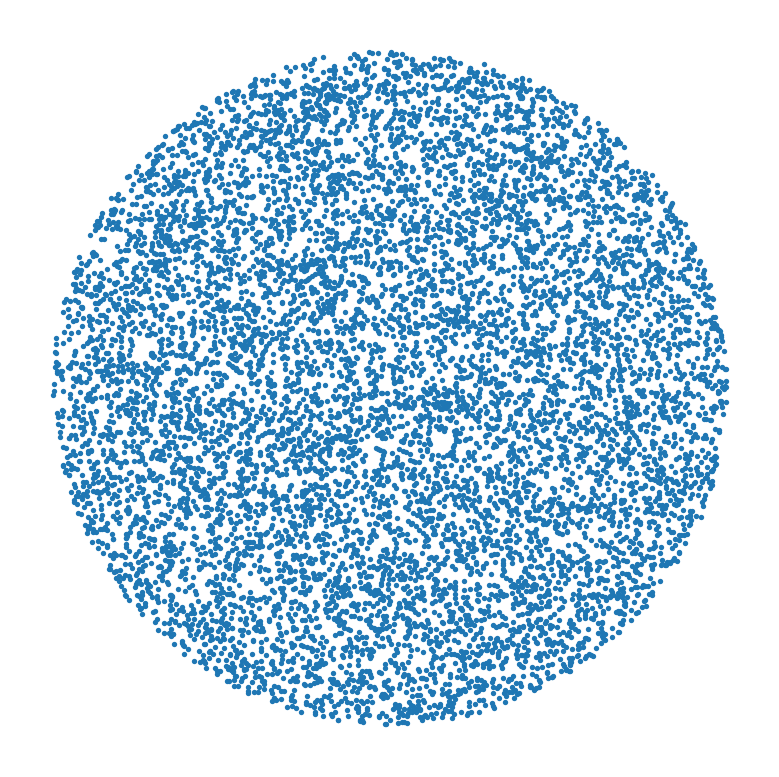
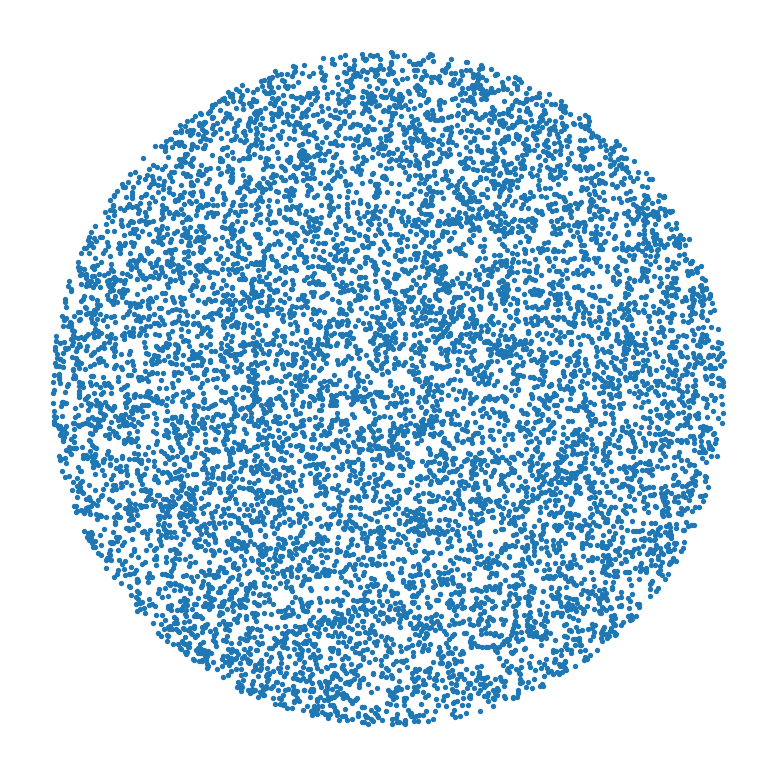
Built site for gh-pages

diff --git a/posts/break-for/index.html b/posts/break-for/index.html
@@ -201,7 +201,7 @@ pre > code.sourceCode > span > a:first-child::before { text-decoration: underlin
 <section id="single-nested-for-loop" class="level2" data-number="1">
 <h2 data-number="1" class="anchored" data-anchor-id="single-nested-for-loop"><span class="header-section-number">1</span> Single Nested <code>for</code> Loop</h2>
 <p>In a <code>for</code>-<code>else</code> clause, <code>else</code> is reached precisely when the <code>for</code> loop is not broken. We give 2 examples to demonstrate this.</p>
-<div id="fcd2cb27" class="cell" data-execution_count="1">
+<div id="f8bddc63" class="cell" data-execution_count="1">
 <div class="code-copy-outer-scaffold"><div class="sourceCode cell-code" id="cb1"><pre class="sourceCode python code-with-copy"><code class="sourceCode python"><span id="cb1-1"><a href="#cb1-1" aria-hidden="true" tabindex="-1"></a><span class="cf">for</span> i <span class="kw">in</span> <span class="bu">range</span>(<span class="dv">3</span>):</span>
 <span id="cb1-2"><a href="#cb1-2" aria-hidden="true" tabindex="-1"></a>    <span class="cf">if</span> i <span class="op">==</span> <span class="dv">4</span>:</span>
 <span id="cb1-3"><a href="#cb1-3" aria-hidden="true" tabindex="-1"></a>        <span class="cf">break</span></span>
@@ -211,7 +211,7 @@ pre > code.sourceCode > span > a:first-child::before { text-decoration: underlin
 <pre><code>Finished for loop layer 1</code></pre>
 </div>
 </div>
-<div id="25748d30" class="cell" data-execution_count="2">
+<div id="65c06d8b" class="cell" data-execution_count="2">
 <div class="code-copy-outer-scaffold"><div class="sourceCode cell-code" id="cb3"><pre class="sourceCode python code-with-copy"><code class="sourceCode python"><span id="cb3-1"><a href="#cb3-1" aria-hidden="true" tabindex="-1"></a><span class="cf">for</span> i <span class="kw">in</span> <span class="bu">range</span>(<span class="dv">3</span>):</span>
 <span id="cb3-2"><a href="#cb3-2" aria-hidden="true" tabindex="-1"></a>    <span class="cf">if</span> i <span class="op">==</span> <span class="dv">2</span>:</span>
 <span id="cb3-3"><a href="#cb3-3" aria-hidden="true" tabindex="-1"></a>        <span class="cf">break</span></span>
@@ -222,7 +222,7 @@ pre > code.sourceCode > span > a:first-child::before { text-decoration: underlin
 <section id="double-nested-for-loop" class="level2" data-number="2">
 <h2 data-number="2" class="anchored" data-anchor-id="double-nested-for-loop"><span class="header-section-number">2</span> Double Nested <code>for</code> Loop</h2>
 <p>Here, the program halts right after <code>(i,j)</code> reaches <code>(2,1)</code>, which is what we want.</p>
-<div id="c39adfe5" class="cell" data-execution_count="3">
+<div id="e7141ab5" class="cell" data-execution_count="3">
 <div class="code-copy-outer-scaffold"><div class="sourceCode cell-code" id="cb4"><pre class="sourceCode python code-with-copy"><code class="sourceCode python"><span id="cb4-1"><a href="#cb4-1" aria-hidden="true" tabindex="-1"></a><span class="cf">for</span> i <span class="kw">in</span> <span class="bu">range</span>(<span class="dv">4</span>): <span class="co"># Layer 1</span></span>
 <span id="cb4-2"><a href="#cb4-2" aria-hidden="true" tabindex="-1"></a>    <span class="bu">print</span>(<span class="ss">f"Layer 1 for i = </span><span class="sc">{</span>i<span class="sc">}</span><span class="ss">: start"</span>)</span>
 <span id="cb4-3"><a href="#cb4-3" aria-hidden="true" tabindex="-1"></a>    <span class="cf">for</span> j <span class="kw">in</span> <span class="bu">range</span>(<span class="dv">3</span>): <span class="co"># Layer 2</span></span>
@@ -250,7 +250,7 @@ Layer 1 for i = 2: start
 </div>
 </div>
 <p>Here, no <code>continue</code> in the <code>else</code> part. Thus, the program breaks unconditionally after finishing its job in the <code>i==0</code> round.</p>
-<div id="49c3c10a" class="cell" data-execution_count="4">
+<div id="214ed6db" class="cell" data-execution_count="4">
 <div class="code-copy-outer-scaffold"><div class="sourceCode cell-code" id="cb6"><pre class="sourceCode python code-with-copy"><code class="sourceCode python"><span id="cb6-1"><a href="#cb6-1" aria-hidden="true" tabindex="-1"></a><span class="cf">for</span> i <span class="kw">in</span> <span class="bu">range</span>(<span class="dv">4</span>):</span>
 <span id="cb6-2"><a href="#cb6-2" aria-hidden="true" tabindex="-1"></a>    <span class="bu">print</span>(<span class="ss">f"Layer 1 for i = </span><span class="sc">{</span>i<span class="sc">}</span><span class="ss">: start"</span>)</span>
 <span id="cb6-3"><a href="#cb6-3" aria-hidden="true" tabindex="-1"></a>    <span class="cf">for</span> j <span class="kw">in</span> <span class="bu">range</span>(<span class="dv">3</span>):</span>
@@ -272,7 +272,7 @@ Layer 1 for i = 2: start
 <section id="triple-nested-for-loop" class="level2" data-number="3">
 <h2 data-number="3" class="anchored" data-anchor-id="triple-nested-for-loop"><span class="header-section-number">3</span> Triple Nested <code>for</code> Loop</h2>
 <p>OK, we’ve learnt enough. Now, let’s test it on a triple nested <code>for</code> loop!</p>
-<div id="018f908b" class="cell" data-execution_count="5">
+<div id="d53a163a" class="cell" data-execution_count="5">
 <div class="code-copy-outer-scaffold"><div class="sourceCode cell-code" id="cb8"><pre class="sourceCode python code-with-copy"><code class="sourceCode python"><span id="cb8-1"><a href="#cb8-1" aria-hidden="true" tabindex="-1"></a><span class="cf">for</span> i <span class="kw">in</span> <span class="bu">range</span>(<span class="dv">3</span>):</span>
 <span id="cb8-2"><a href="#cb8-2" aria-hidden="true" tabindex="-1"></a>    <span class="cf">for</span> j <span class="kw">in</span> <span class="bu">range</span>(<span class="dv">4</span>):</span>
 <span id="cb8-3"><a href="#cb8-3" aria-hidden="true" tabindex="-1"></a>        <span class="cf">for</span> k <span class="kw">in</span> <span class="bu">range</span>(<span class="dv">2</span>):</span>

diff --git a/posts/instruments-as-operators/piano.html b/posts/instruments-as-operators/piano.html
@@ -197,8 +197,10 @@ window.Quarto = {
 <div class="ins">
 <div class="panel">
     <div class="controls"><button id="o21">C4 + C5, exactly 2 : 1</button><button id="ost" class="primary">C4 + C5, stretched</button></div>
+    <div class="slider"><label for="oMult">Stiffness ×</label><input type="range" id="oMult" min="1" max="12" step="0.5" value="6"><output id="oMulto">6.0</output></div>
+    <label class="check"><input type="checkbox" id="oAll"> Play every partial</label>
     <div class="readout" id="oRead"></div>
-    <p class="cap">Listen for the slow wobble in the 2 : 1 version. Raising the stiffness on the keyboard below speeds it up.</p>
+    <p class="cap">At first each note keeps only its lowest partials (C4: 1 to 3, C5: 1 and 2), so the one beat a tuner listens for stands out: the exactly 2 : 1 octave wobbles at the rate shown, and the stretched one is steady. The stiffness starts at about 6 times a real middle C wire's so that the wobble is quick enough to hear; at 1 it is a slow swell every few seconds. Tick "Play every partial" to hear whole notes: then the stretched octave wobbles too, from the lower note's 4th partial against the upper note's 2nd, the compromise described below.</p>
   </div>
 </div>
 <p>Then play the whole piano with the mouse or your computer keys. Release a key and its felt <a href="../../posts/instruments-as-operators/glossary.html#damper">damper</a> drops back onto the string and stops it.</p>
@@ -514,24 +516,39 @@ f_n = n f_0\sqrt{1 + Bn^2}, \qquad B = \frac{\pi^2 EI}{T L^2},
   }, true);
 
   var ms = document.getElementById("mult"), mo = document.getElementById("multo");
-  ms.addEventListener("input", function () { mult = parseFloat(ms.value); mo.textContent = mult.toFixed(1); pspec(); octRead(); });
+  ms.addEventListener("input", function () { mult = parseFloat(ms.value); mo.textContent = mult.toFixed(1); pspec(); });
   function pspec() {
     var p = partsFor(last);
     C.stems(document.getElementById("pSpec"), p, { W: 320, H: 120, rmax: 16, fs: 8, sw: 2, labelEvery: 2 });
     var r10 = p[9] ? p[9].ratio : null;
     document.getElementById("pPart").innerHTML = C.noteName(C.mtof(last)).name + " · partial 2 at <b>" + (1200 * Math.log2(p[1].ratio / 2)).toFixed(1) + "¢</b> sharp" + (r10 ? " · partial 10 at <b>" + (1200 * Math.log2(r10 / 10)).toFixed(0) + "¢</b> sharp" : "");
   }
-  function r2(k) { var B = C.models.piano.B(k, mult); return 2 * Math.sqrt((1 + 4 * B) / (1 + B)); }
+  // The octave demo has its own stiffness, so the beat can be made quick enough to hear without changing the keyboard.
+  var om = 6, oAll = false;
+  function rn(n, B) { return n * Math.sqrt((1 + B * n * n) / (1 + B)); }
+  function oB(k) { return C.models.piano.B(k, om); }
+  function r2(k) { return rn(2, oB(k)); }
   function octRead() {
-    var f = C.mtof(60), beat = f * (r2(60) - 2);
-    document.getElementById("oRead").innerHTML = "2 : 1 octave beats at <b>" + beat.toFixed(2) + " Hz</b> · stretched octave is <b>" + (1200 * Math.log2(r2(60) / 2)).toFixed(1) + "¢</b> wide";
+    var f = C.mtof(60), B4 = oB(60), B5 = oB(72), f5s = f * r2(60);
+    var txt = "exactly 2 : 1: C4's 2nd partial beats against C5 at <b>" + (f * (r2(60) - 2)).toFixed(2) + " Hz</b> · stretched: no beat there, octave <b>" + (1200 * Math.log2(r2(60) / 2)).toFixed(1) + "¢</b> wide";
+    if (oAll) txt += " · C4's 4th partial against C5's 2nd: <b>" + Math.abs(f * rn(4, B4) - 2 * f * rn(2, B5)).toFixed(2) + " Hz</b> exact, <b>" + Math.abs(f * rn(4, B4) - f5s * rn(2, B5)).toFixed(2) + " Hz</b> stretched";
+    document.getElementById("oRead").innerHTML = txt;
   }
+  // The lowest partials only, with fixed strengths, so the 2 : 1 pair dominates.
+  function lowest(f1, B, amps, tau) { return amps.map(function (a, i) { return { f: f1 * rn(i + 1, B), amp: a, tau: tau }; }); }
   function octave(stretch) {
-    var f = C.mtof(60), f5 = stretch ? f * r2(60) : 2 * f;
-    var a = C.toHz(partsFor(60, f), f), b = C.toHz(partsFor(72, f5), f5);
-    b.forEach(function (p) { p.amp *= 0.8; });
+    var f = C.mtof(60), f5 = stretch ? f * r2(60) : 2 * f, a, b;
+    if (oAll) {
+      a = C.toHz(partsFor(60, f, om), f); b = C.toHz(partsFor(72, f5, om), f5);
+      b.forEach(function (p) { p.amp *= 0.8; });
+    } else {
+      a = lowest(f, oB(60), [1, 0.7, 0.3], 2.6); b = lowest(f5, oB(72), [0.7, 0.25], 2.0);
+    }
     C.play(C.render(a.concat(b), 4.5), 0.8);
   }
+  var oms = document.getElementById("oMult"), omo = document.getElementById("oMulto");
+  oms.addEventListener("input", function () { om = parseFloat(oms.value); omo.textContent = om.toFixed(1); octRead(); });
+  document.getElementById("oAll").addEventListener("change", function (e) { oAll = e.target.checked; octRead(); });
   document.getElementById("o21").addEventListener("click", function () { octave(false); });
   document.getElementById("ost").addEventListener("click", function () { octave(true); });
   C.onTheme(pspec);

diff --git a/index.html b/index.html
@@ -200,7 +200,7 @@ Title
 </thead>
 <tbody class="list">
 
-<tr data-index="0" data-categories="bWF0aCUyQ211c2lj" data-listing-date-sort="1792886400000" data-listing-file-modified-sort="1793030758770" data-listing-date-modified-sort="1792972800000" data-listing-reading-time-sort="13" data-listing-word-count-sort="2510" data-listing-title-sort="Instruments as Operators" data-listing-filename-sort="index.qmd">
+<tr data-index="0" data-categories="bWF0aCUyQ211c2lj" data-listing-date-sort="1792886400000" data-listing-file-modified-sort="1793076363288" data-listing-date-modified-sort="1792972800000" data-listing-reading-time-sort="13" data-listing-word-count-sort="2574" data-listing-title-sort="Instruments as Operators" data-listing-filename-sort="index.qmd">
 <td>
 <span class="listing-date">Oct 25, 2026</span>
 </td>
@@ -210,7 +210,7 @@ Title
 
 </tr>
 
-<tr data-index="1" data-categories="YXJ0" data-listing-date-sort="1700524800000" data-listing-file-modified-sort="1793030758768" data-listing-date-modified-sort="1700697600000" data-listing-reading-time-sort="3" data-listing-word-count-sort="401" data-listing-title-sort="A Bicycle Wheel" data-listing-filename-sort="index.qmd">
+<tr data-index="1" data-categories="YXJ0" data-listing-date-sort="1700524800000" data-listing-file-modified-sort="1793076363286" data-listing-date-modified-sort="1700697600000" data-listing-reading-time-sort="3" data-listing-word-count-sort="401" data-listing-title-sort="A Bicycle Wheel" data-listing-filename-sort="index.qmd">
 <td>
 <span class="listing-date">Nov 21, 2023</span>
 </td>
@@ -220,7 +220,7 @@ Title
 
 </tr>
 
-<tr data-index="2" data-categories="Y29kZQ==" data-listing-date-sort="1697673600000" data-listing-file-modified-sort="1793030758771" data-listing-date-modified-sort="1700697600000" data-listing-reading-time-sort="2" data-listing-word-count-sort="220" data-listing-title-sort="Inverse Sampling Transform" data-listing-filename-sort="index.qmd">
+<tr data-index="2" data-categories="Y29kZQ==" data-listing-date-sort="1697673600000" data-listing-file-modified-sort="1793076363289" data-listing-date-modified-sort="1700697600000" data-listing-reading-time-sort="2" data-listing-word-count-sort="220" data-listing-title-sort="Inverse Sampling Transform" data-listing-filename-sort="index.qmd">
 <td>
 <span class="listing-date">Oct 19, 2023</span>
 </td>
@@ -230,7 +230,7 @@ Title
 
 </tr>
 
-<tr data-index="3" data-categories="Y29kZQ==" data-listing-date-sort="1695340800000" data-listing-file-modified-sort="1793030758768" data-listing-date-modified-sort="1700697600000" data-listing-reading-time-sort="3" data-listing-word-count-sort="528" data-listing-title-sort="How to Break Nested For Loop" data-listing-filename-sort="index.qmd">
+<tr data-index="3" data-categories="Y29kZQ==" data-listing-date-sort="1695340800000" data-listing-file-modified-sort="1793076363286" data-listing-date-modified-sort="1700697600000" data-listing-reading-time-sort="3" data-listing-word-count-sort="528" data-listing-title-sort="How to Break Nested For Loop" data-listing-filename-sort="index.qmd">
 <td>
 <span class="listing-date">Sep 22, 2023</span>
 </td>

diff --git a/posts/instruments-as-operators/index.html b/posts/instruments-as-operators/index.html
@@ -230,7 +230,7 @@ window.Quarto = {
   </div>
   <div class="pcard">
     <p class="q">Why do piano tuners avoid exact octaves?</p>
-    <p class="b">An octave tuned to exactly 2 : 1 wobbles; a slightly stretched one doesn't. Stiffness exaggerated here so the wobble is easy to hear.</p>
+    <p class="b">An octave tuned to exactly 2 : 1 wobbles; a slightly stretched one doesn't. To make the wobble easy to hear, these are simplified notes: only their lowest partials, with the stiffness exaggerated.</p>
     <div class="controls"><button data-g="oct">Exactly 2 : 1</button><button data-g="str">Stretched</button></div>
     <p class="go">Answered on <a href="piano.html">page 7</a></p>
   </div>
@@ -548,8 +548,9 @@ Every instrument side by side: force, operator, boundary, eigen-condition, ratio
 
   // ---- the six puzzles ----
   function harmonics(f, n, odd, skip1) { var out = []; for (var k = 1; k <= n; k++) { if (odd && k % 2 === 0) continue; if (skip1 && k === 1) continue; out.push({ f: f * k, amp: 1 / k, tau: 10 }); } return out; }
-  var BL = 0.0024, BU = 0.0048, LOW = 261.63, P2 = Math.sqrt((1 + 4 * BL) / (1 + BL));
-  function pianoNote(f1, B) { return C.toHz(M.piano.partials({ B: B, f1: f1 }), f1); }
+  // Octave puzzle: simplified stiff-string notes, only the lowest partials, so the tuner's 2 : 1 beat (C4's 2nd partial against C5) stands out.
+  var BS = 0.0024, LOW = 261.63, P2 = Math.sqrt((1 + 4 * BS) / (1 + BS));
+  function stiffNote(f1, amps) { return amps.map(function (a, i) { var n = i + 1; return { f: f1 * n * Math.sqrt((1 + BS * n * n) / (1 + BS)), amp: a, tau: 3 }; }); }
   var GWW = [2.53794399980, 3.65550971352, 5.17555935622, 6.53755744376, 7.24807786256, 9.20929499840, 10.5969856913, 11.5413953956, 12.3370055014, 13.0536540557, 14.3138624643, 15.8713026200];
   function gww() { return GWW.map(function (v, k) { return { f: 150 * Math.sqrt(v / GWW[0]), amp: 1, tau: 1.4 / (1 + 0.12 * k) }; }); }
   var G = {
@@ -561,8 +562,8 @@ Every instrument side by side: force, operator, boundary, eigen-condition, ratio
     clar: function () { return fadeOut(C.render(harmonics(343 / 2.4, 15, true), 1.6), 0.3); },
     kal: function () { return C.render(C.toHz(M.kalimba.partials(), 523.25), 2.4); },
     harm: function () { return fadeOut(C.render(C.toHz(M.harmonica.partials(), 523.25), 1.6), 0.3); },
-    oct: function () { return C.render(pianoNote(LOW, BL).concat(pianoNote(2 * LOW, BU)), 4); },
-    str: function () { return C.render(pianoNote(LOW, BL).concat(pianoNote(2 * LOW * P2, BU)), 4); },
+    oct: function () { return C.render(stiffNote(LOW, [1, 0.7, 0.3]).concat(stiffNote(2 * LOW, [0.7, 0.25])), 4); },
+    str: function () { return C.render(stiffNote(LOW, [1, 0.7, 0.3]).concat(stiffNote(2 * LOW * P2, [0.7, 0.25])), 4); },
     gA: function () { return C.render(gww(), 2.4); },
     gB: function () { return C.render(gww(), 2.4); }
   };

diff --git a/posts/sampling/index.html b/posts/sampling/index.html
@@ -298,7 +298,7 @@ window.Quarto = {
 <div id="fig-uniform-sampling-unit-disk" class="quarto-float quarto-figure quarto-figure-center anchored">
 <figure class="quarto-float quarto-float-fig figure">
 <div aria-describedby="fig-uniform-sampling-unit-disk-caption-0ceaefa1-69ba-4598-a22c-09a6ac19f8ca">
-<img src="index_files/figure-html/fig-uniform-sampling-unit-disk-output-1.png" width="390" height="389" class="figure-img">
+<img src="index_files/figure-html/fig-uniform-sampling-unit-disk-output-1.png" width="388" height="389" class="figure-img">
 </div>
 <figcaption class="quarto-float-caption-bottom quarto-float-caption quarto-float-fig" id="fig-uniform-sampling-unit-disk-caption-0ceaefa1-69ba-4598-a22c-09a6ac19f8ca">
 Figure&nbsp;1: Sampling 10000 points uniformly on the unit disk.
